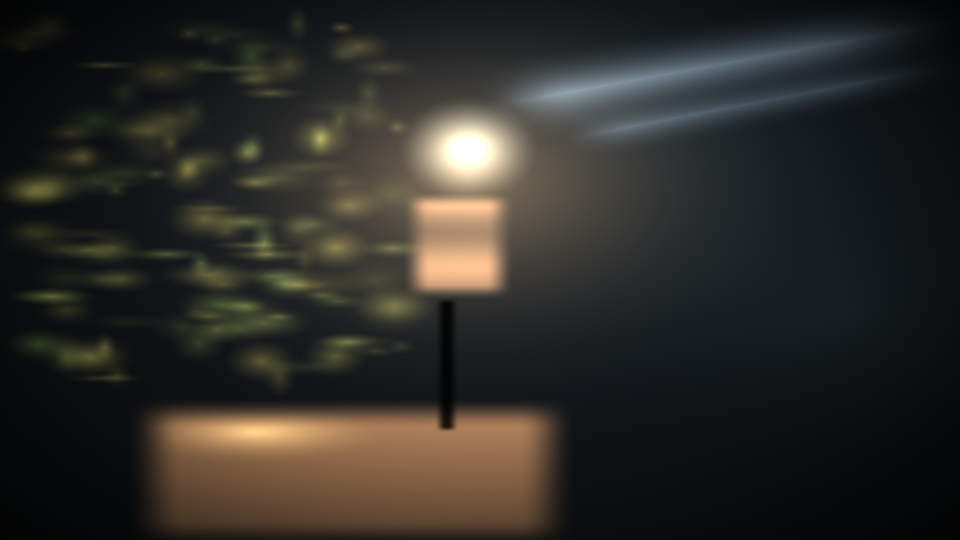
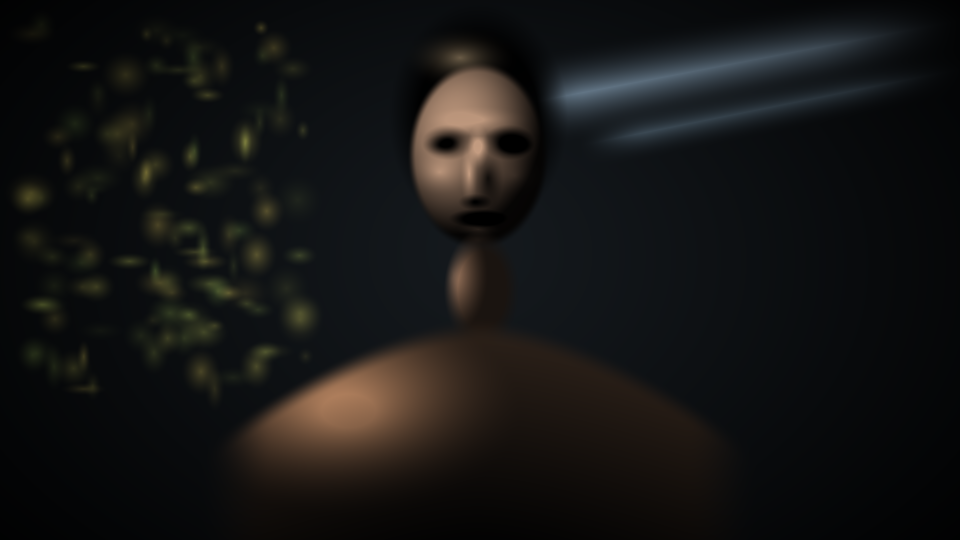
Fix source photo: the reference frame is a portrait, not a lamp
The reference render is a head-and-shoulders portrait lit hard from the
upper left. I read the bright mass at the top as a desk lamp and the
banded block below it as a lamp shade, and built the stand-in photo
around that, so the effect was rendering a lamp with no face in it.

Rebuilds the stand-in as a portrait: the head is an ellipsoid shaded by a
fake surface normal, with eye sockets, a lit nose bridge, mouth and jaw
carved into it, then neck and shoulders below. Features are sized and
deepened for the grid rather than for the source — the eyes have to land
on two or three cells to survive the cell average, and specular
catchlights are left out because a highlight smaller than a cell just
fills the socket back in.

The figure sits high in the frame so the hero copy has the lower half to
itself. Hero copy moves down accordingly and its scrim is reweighted to
the lower half, leaving the face readable through it.

public/ascii/README.md now says what makes a photo read well through the
grid, since dropping in a real portrait is the obvious next improvement.

Claude-Session: https://claude.ai/code/session_01CqNyjLdDwU8CVsuUHf5Dhb

diff --git a/components/HeroSection.tsx b/components/HeroSection.tsx
@@ -40,19 +40,23 @@ export function HeroSection() {
 
   return (
     <section className="relative flex h-screen w-full items-center justify-center overflow-hidden">
-      {/* Scrim: keeps the copy legible where the backdrop blooms brightest */}
+      {/*
+        Scrim. Weighted to the lower half, where the copy sits, so the
+        subject's face in the upper third stays readable through it.
+      */}
       <div
         aria-hidden
         className="pointer-events-none absolute inset-0 z-0"
         style={{
           background:
-            'radial-gradient(ellipse 68% 56% at 50% 48%, rgba(0,0,0,0.76) 0%, rgba(0,0,0,0.5) 46%, rgba(0,0,0,0.12) 74%, rgba(0,0,0,0) 100%), ' +
-            'linear-gradient(to top, rgba(0,0,0,0.62) 0%, rgba(0,0,0,0) 17%)',
+            'radial-gradient(ellipse 78% 40% at 50% 76%, rgba(0,0,0,0.88) 0%, rgba(0,0,0,0.62) 44%, rgba(0,0,0,0.16) 78%, rgba(0,0,0,0) 100%), ' +
+            'linear-gradient(to top, rgba(0,0,0,0.7) 0%, rgba(0,0,0,0.24) 32%, rgba(0,0,0,0) 58%)',
         }}
       />
 
       {/* Foreground content, stacked and centered */}
-      <div className="relative z-10 flex h-full flex-col items-center justify-center gap-6 px-6 text-center">
+      {/* Sits low in the frame so the backdrop's subject has the upper third */}
+      <div className="relative z-10 flex h-full flex-col items-center justify-end gap-6 px-6 pb-[11vh] text-center">
         <motion.p
           initial={{ opacity: 0, y: -20 }}
           animate={{ opacity: 1, y: 0 }}

diff --git a/public/ascii/README.md b/public/ascii/README.md
@@ -1,17 +1,30 @@
 # ASCII effect source photo
 
-`ref-008.png` is a **stand-in**. The original reference frame lives at
-`/ascii-editor/demos/generated/ref-008.webp` on 21st.dev, which this
-environment could not reach, so this file was generated to match the
-reference render's composition: dark interior, warm desk-lamp bloom just
-above centre, foliage highlights at the left, cool window light raking
-across the upper right, lit desk surface along the bottom.
+`ref-008.png` is a **stand-in**, and swapping it for a real photo is the
+single biggest upgrade available here.
 
-To use a different photo, drop it in here and point the component at it:
+The original reference frame lives at
+`/ascii-editor/demos/generated/ref-008.webp` on 21st.dev, which this
+environment could not reach. This file reproduces its composition — a
+head-and-shoulders portrait lit hard from the upper left, dark room,
+foliage at the left, cool window light raking the upper right — but the
+figure is painted procedurally, so it reads as a mannequin rather than a
+person. The effect only ever samples it through a 16px grid, which hides
+a lot, but not everything.
+
+To use your own photo, drop it in here and point the component at it:
 
 ```tsx
 <AsciiEffect src="/ascii/your-photo.jpg" />
 ```
 
-Anything the browser can decode works. The effect cover-fits the image to
-the canvas, so a wide landscape shot with one clear bright area reads best.
+Anything the browser can decode works. What reads best through the grid:
+
+- a **portrait**, framed head-and-shoulders, subject centred
+- **hard directional light** — one bright side, one side falling into
+  shadow, so the eyes, nose and jaw survive being averaged into cells
+- a **dark, uncluttered background**, so the subject is the only thing
+  with tone in the frame
+
+The layout assumes the head sits in the upper third: the hero copy is
+positioned below it, and its scrim is weighted to the lower half.
